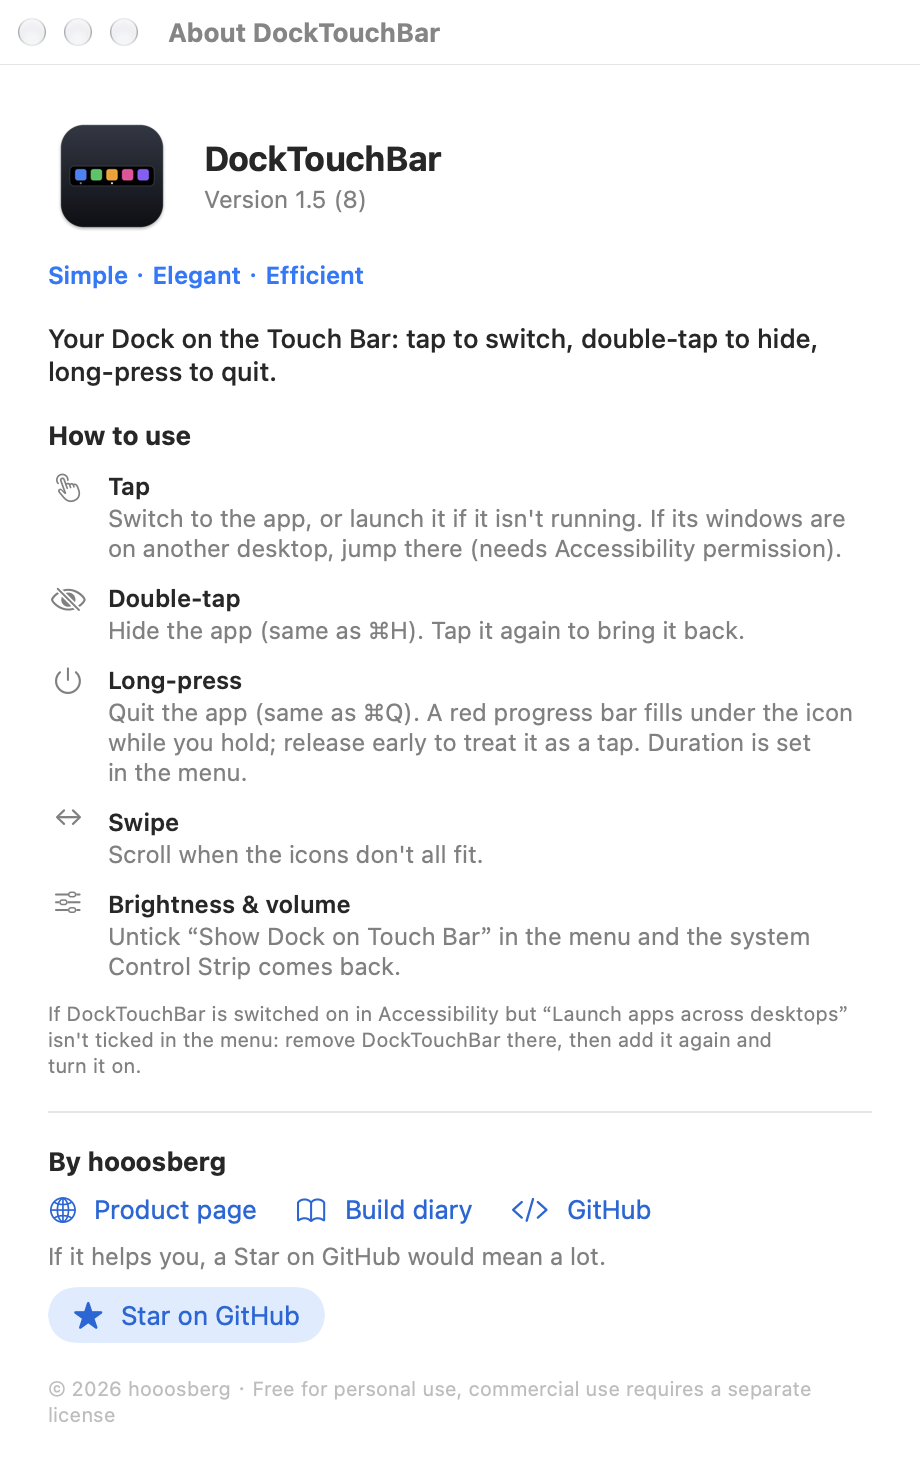
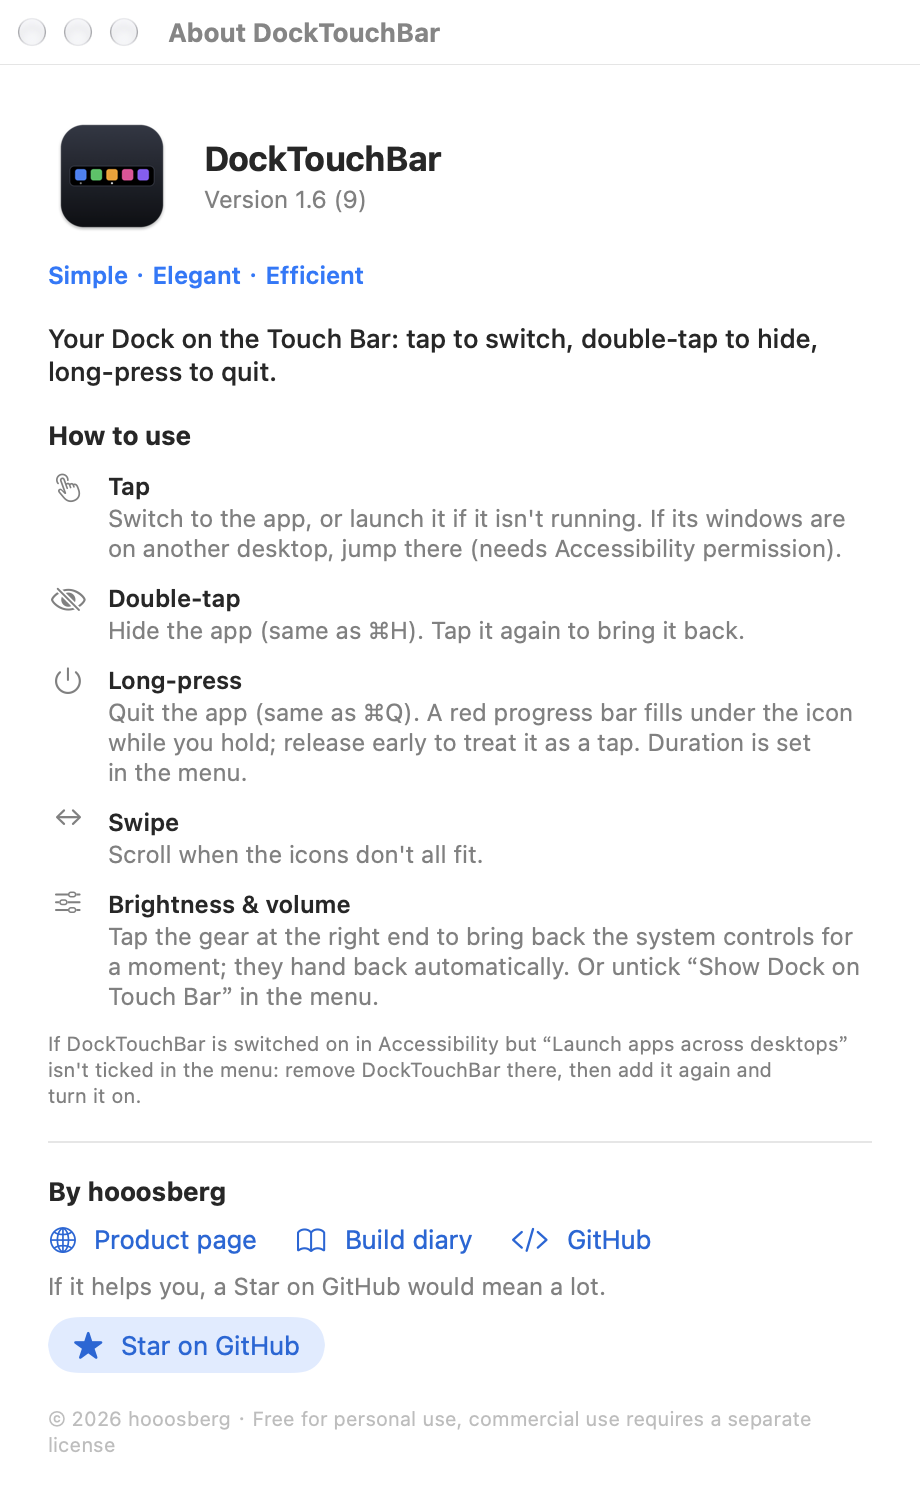
Release 1.6: gear button hands the Touch Bar back to the system temporarily

diff --git a/Sources/DockTouchBar/DockBarController.swift b/Sources/DockTouchBar/DockBarController.swift
@@ -8,6 +8,13 @@ final class DockBarController: NSObject {
         static let iconSize: CGFloat = 24
         /// Touch Bar 占满整条时可用宽度约 1004pt。
         static let maxDockWidth: CGFloat = 1000
+        /// 最右侧固定的“设置”按钮宽度（Dock 图标区不会画到它下面）。
+        static let gearWidth: CGFloat = 44
+        /// 点设置按钮时屏幕亮度低于这个值算“被调黑了”，回到 `brightnessRecovered` 以上才自动恢复。
+        static let brightnessDark: Float = 0.08
+        static let brightnessRecovered: Float = 0.15
+        /// 没被调黑时，暂停多久后自动恢复。
+        static let pauseTimeout: TimeInterval = 20
         static let doubleTapInterval: TimeInterval = 0.35
         /// 按住多久开始显示“长按退出”的进度条；比这更短的按压都当作点击。
         static let pressArmDelay: TimeInterval = 0.35
@@ -27,6 +34,10 @@ final class DockBarController: NSObject {
     /// 装着 Dock 和右侧“正在关闭”提示的容器；宽度固定为整条 Touch Bar，Dock 靠左，提示靠右边缘。
     private let container = NSView()
     private let quitHint = QuitHintView()
+    private let gearButton = NSButton()
+    /// 临时暂停：用户点了右侧的设置按钮，让出 Touch Bar 给系统控制条（亮度、音量……）。
+    private var isPaused = false
+    private var pauseTimer: Timer?
 
     private lazy var touchBar: NSTouchBar = {
         let bar = NSTouchBar()
@@ -39,7 +50,7 @@ final class DockBarController: NSObject {
     private lazy var trayItem: NSCustomTouchBarItem = {
         let item = NSCustomTouchBarItem(identifier: trayID)
         let image = NSImage(systemSymbolName: "dock.rectangle", accessibilityDescription: nil) ?? NSImage()
-        item.view = NSButton(image: image, target: self, action: #selector(present))
+        item.view = NSButton(image: image, target: self, action: #selector(trayTapped))
         return item
     }()
 
@@ -102,13 +113,27 @@ final class DockBarController: NSObject {
         quitHint.translatesAutoresizingMaskIntoConstraints = false
         container.addSubview(scrubber)
         container.addSubview(quitHint)
+        container.addSubview(gearButton)
+        gearButton.translatesAutoresizingMaskIntoConstraints = false
+        let symbol = NSImage.SymbolConfiguration(pointSize: 15, weight: .regular)
+        gearButton.image = NSImage(systemSymbolName: "gearshape", accessibilityDescription: L10n.tr("暂时显示系统控制条", "Show system controls"))?
+            .withSymbolConfiguration(symbol)
+        gearButton.isBordered = false
+        gearButton.imagePosition = .imageOnly
+        gearButton.contentTintColor = NSColor(white: 1, alpha: 0.7)
+        gearButton.target = self
+        gearButton.action = #selector(gearTapped)
         NSLayoutConstraint.activate([
             container.widthAnchor.constraint(equalToConstant: Metrics.maxDockWidth),
             container.heightAnchor.constraint(equalToConstant: 30),
             scrubber.leadingAnchor.constraint(equalTo: container.leadingAnchor),
             scrubber.topAnchor.constraint(equalTo: container.topAnchor),
             scrubber.bottomAnchor.constraint(equalTo: container.bottomAnchor),
-            quitHint.trailingAnchor.constraint(equalTo: container.trailingAnchor),
+            gearButton.trailingAnchor.constraint(equalTo: container.trailingAnchor),
+            gearButton.topAnchor.constraint(equalTo: container.topAnchor),
+            gearButton.bottomAnchor.constraint(equalTo: container.bottomAnchor),
+            gearButton.widthAnchor.constraint(equalToConstant: Metrics.gearWidth),
+            quitHint.trailingAnchor.constraint(equalTo: gearButton.leadingAnchor),
             quitHint.topAnchor.constraint(equalTo: container.topAnchor),
             quitHint.bottomAnchor.constraint(equalTo: container.bottomAnchor),
             quitHint.widthAnchor.constraint(equalToConstant: QuitHintView.width),
@@ -144,15 +169,59 @@ final class DockBarController: NSObject {
         isActive = false
         cancelPress()
         stopObserving()
+        endPause(present: false)
         TouchBarBridge.dismiss(touchBar)
         TouchBarBridge.removeTrayItem(trayItem)
     }
 
     // MARK: - 显示与恢复
 
-    @objc private func present() {
-        guard isActive else { return }
+    private func present() {
+        guard isActive, !isPaused else { return }
         TouchBarBridge.present(touchBar, trayIdentifier: trayID)
+    }
+
+    /// 系统控制条里的入口按钮：暂停中就恢复，否则重新显示。
+    @objc private func trayTapped() {
+        endPause(present: false)
+        present()
+    }
+
+    // MARK: - 临时暂停（兜底：屏幕被调黑时能用系统的亮度条）
+
+    /// 点右侧的设置按钮：先把 Touch Bar 还给系统（亮度、音量都回来了），之后自动恢复：
+    /// 暂停时屏幕已经是黑的，就等亮度回来；否则过一会儿自动恢复。中途亮度又被调黑，就一直等到亮起来。
+    @objc private func gearTapped() {
+        beginPause()
+    }
+
+    private func beginPause() {
+        guard isActive, !isPaused else { return }
+        isPaused = true
+        cancelPress()
+        let wasDark = ScreenBrightness.current.map { $0 < Metrics.brightnessDark } ?? false
+        let start = Date()
+        TouchBarBridge.dismiss(touchBar)
+        let timer = Timer(timeInterval: 0.5, repeats: true) { [weak self] _ in
+            guard let self else { return }
+            let brightness = ScreenBrightness.current
+            let bright = brightness.map { $0 >= Metrics.brightnessRecovered } ?? true
+            let waited = Date().timeIntervalSince(start) >= Metrics.pauseTimeout
+            if bright && (wasDark || waited) { self.endPause(present: true) }
+        }
+        RunLoop.main.add(timer, forMode: .common)
+        pauseTimer = timer
+    }
+
+    private func endPause(present shouldPresent: Bool) {
+        pauseTimer?.invalidate()
+        pauseTimer = nil
+        guard isPaused else { return }
+        isPaused = false
+        if shouldPresent {
+            present()
+            presentAgainIfHidden(after: 1)
+        }
     }
 
     private func presentAgainIfHidden(after delay: TimeInterval) {
@@ -373,7 +442,7 @@ final class DockBarController: NSObject {
             // 图标位置变了，按压记录的序号已经不对，直接作废。
             cancelPress()
             let contentWidth = tiles.reduce(0) { $0 + Self.width(of: $1) }
-            scrubberWidth.constant = min(contentWidth, Metrics.maxDockWidth)
+            scrubberWidth.constant = min(contentWidth, Metrics.maxDockWidth - Metrics.gearWidth)
             scrubber.reloadData()
         }
     }

diff --git a/Sources/DockTouchBar/TouchBarBridge.swift b/Sources/DockTouchBar/TouchBarBridge.swift
@@ -61,3 +61,26 @@ enum TouchBarBridge {
         NSTouchBar.perform(dismissSel, with: bar)
     }
 }
+
+
+/// 内置屏幕的亮度（0…1），用来判断屏幕是不是被调到了全黑。用系统私有的 DisplayServices，读不到就返回 nil。
+enum ScreenBrightness {
+    private typealias GetFn = @convention(c) (UInt32, UnsafeMutablePointer<Float>) -> Int32
+    private static let getFn: GetFn? = {
+        guard let handle = dlopen("/System/Library/PrivateFrameworks/DisplayServices.framework/DisplayServices", RTLD_LAZY),
+              let symbol = dlsym(handle, "DisplayServicesGetBrightness") else { return nil }
+        return unsafeBitCast(symbol, to: GetFn.self)
+    }()
+
+    static var current: Float? {
+        guard let getFn else { return nil }
+        var ids = [CGDirectDisplayID](repeating: 0, count: 8)
+        var count: UInt32 = 0
+        guard CGGetOnlineDisplayList(8, &ids, &count) == .success else { return nil }
+        for id in ids.prefix(Int(count)) where CGDisplayIsBuiltin(id) != 0 {
+            var value: Float = 0
+            if getFn(id, &value) == 0 { return value }
+        }
+        return nil
+    }
+}

diff --git a/Sources/DockTouchBar/AboutWindow.swift b/Sources/DockTouchBar/AboutWindow.swift
@@ -50,8 +50,8 @@ private struct AboutView: View {
             Usage(symbol: "arrow.left.and.right", title: L10n.tr("左右滑动", "Swipe"),
                   detail: L10n.tr("图标放不下时滚动。", "Scroll when the icons don't all fit.")),
             Usage(symbol: "slider.horizontal.3", title: L10n.tr("调亮度、音量", "Brightness & volume"),
-                  detail: L10n.tr("在菜单里取消勾选“在 Touch Bar 上显示 Dock”，系统控制条就回来了。",
-                                  "Untick “Show Dock on Touch Bar” in the menu and the system Control Strip comes back.")),
+                  detail: L10n.tr("点最右端的齿轮，系统控制条暂时回来，稍后自动恢复；也可以在菜单里取消勾选“在 Touch Bar 上显示 Dock”。",
+                                  "Tap the gear at the right end to bring back the system controls for a moment; they hand back automatically. Or untick “Show Dock on Touch Bar” in the menu.")),
         ]
     }
 

diff --git a/README.md b/README.md
@@ -100,7 +100,7 @@ Opening the app again from Applications while it is running pops up the menu.
 Things to know:
 
 - It uses **private Apple APIs** to keep a Touch Bar on screen from a background app. That is also why it cannot be on the Mac App Store, and why a future macOS update could break it. The private interfaces are resolved at runtime, so if one disappears that feature switches off instead of crashing; `swift tools/probe-private-api.swift` shows which ones your macOS still has.
-- The Dock takes the **whole** Touch Bar, so the system Control Strip (brightness, volume) is hidden while it is on. Untick "Show Dock on Touch Bar" in the menu to get it back.
+- The Dock takes the **whole** Touch Bar, so the system Control Strip (brightness, volume) is hidden while it is on. Tap the gear button at the right end of the bar to hand the Touch Bar back to the system for a moment (it comes back on its own after about 20 seconds, or as soon as the brightness is raised if the screen was turned all the way down). You can also untick "Show Dock on Touch Bar" in the menu.
 - Left-to-right order matches your Dock: Finder → pinned apps → divider → other running apps.
 - With Stage Manager on, macOS animates the window change, so the window can take about half a second to appear on screen. The tapped app becomes the frontmost app in about 40 ms; the rest is the system's animation.
 
